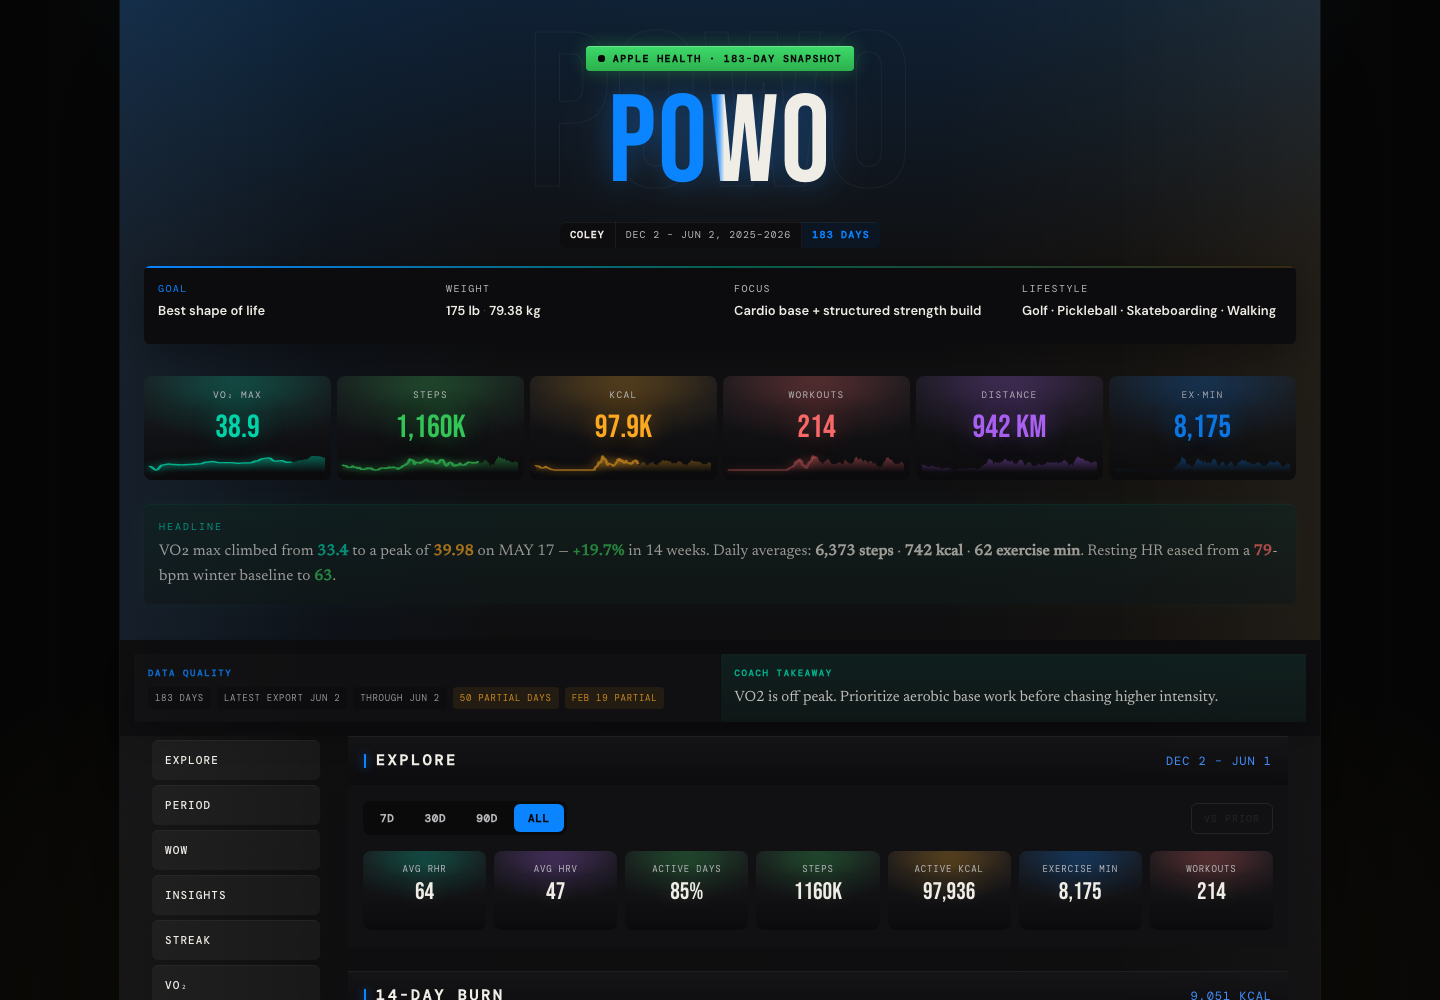
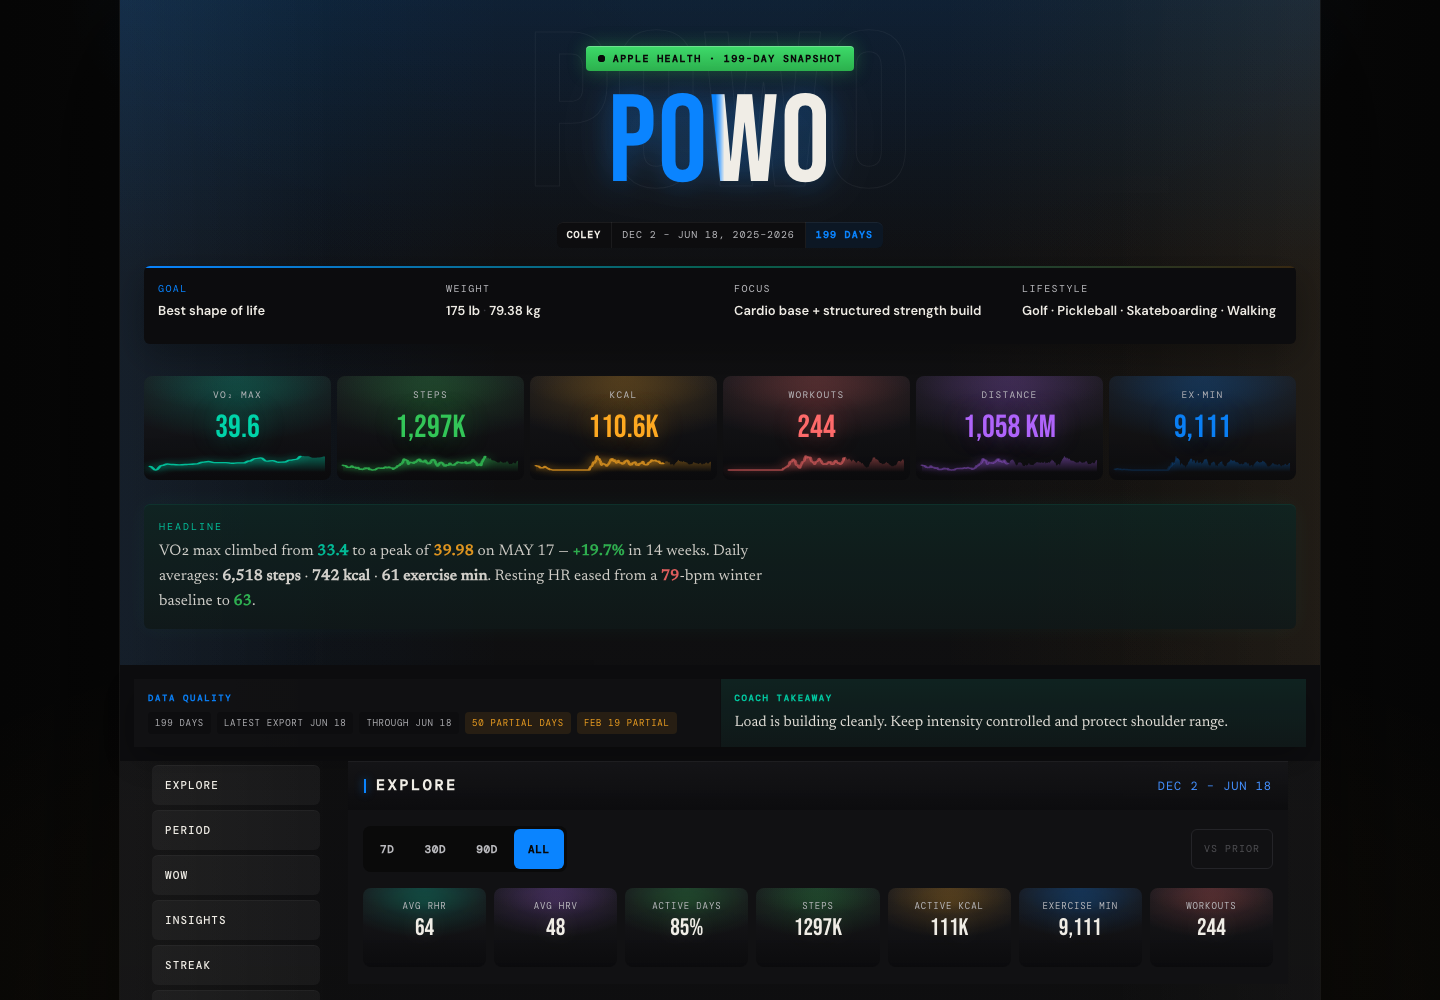
docs: refresh README figures + regenerate dark-mode gallery
Update the "what it is" line to the current dataset (199 days, 244 workouts, 65
sleep nights; 16-bpm RHR drop still holds). Document the PULSE adapt→merge→convert
refresh path. Regenerate the desktop/iPad/iPhone screenshots in dark mode (now
the default) on the refreshed data.

diff --git a/README.md b/README.md
@@ -29,7 +29,7 @@ The same dashboard is deliberately composed for desktop, iPad, and iPhone rather
 
 ## What it is
 
-A personal site, not a product. POWO takes raw Apple Health data — 183 days, 214 workouts, 57 nights of sleep, a resting heart rate that dropped 16 bpm — and renders it as something worth looking at. Every chart, card, and line of copy is specific to one athlete's real numbers.
+A personal site, not a product. POWO takes raw Apple Health data — 199 days, 244 workouts, 65 nights of sleep, a resting heart rate that dropped 16 bpm — and renders it as something worth looking at. Every chart, card, and line of copy is specific to one athlete's real numbers.
 
 The technical choices serve that goal: no UI library because every surface needs to look exactly right; no charting library because the data tells a specific story; static output because the page should load in under a second on a phone with bad signal.
 
@@ -66,6 +66,15 @@ Export from the Apple Health app (Profile → Export All Health Data), place the
 
 ```bash
 npm run refresh
+git push origin main
+```
+
+A **PULSE.health.v1** export (different schema, often a shorter window) is adapted to the legacy shape and merged into the existing history first — new values win on overlapping dates, older months are preserved:
+
+```bash
+node scripts/adapt-pulse.mjs <pulse-export.json> /tmp/adapted.json
+node scripts/merge-export.mjs <old-export.json> /tmp/adapted.json /tmp/merged.json
+node scripts/convert-export.mjs /tmp/merged.json && npm run qa
 git push origin main
 ```
 